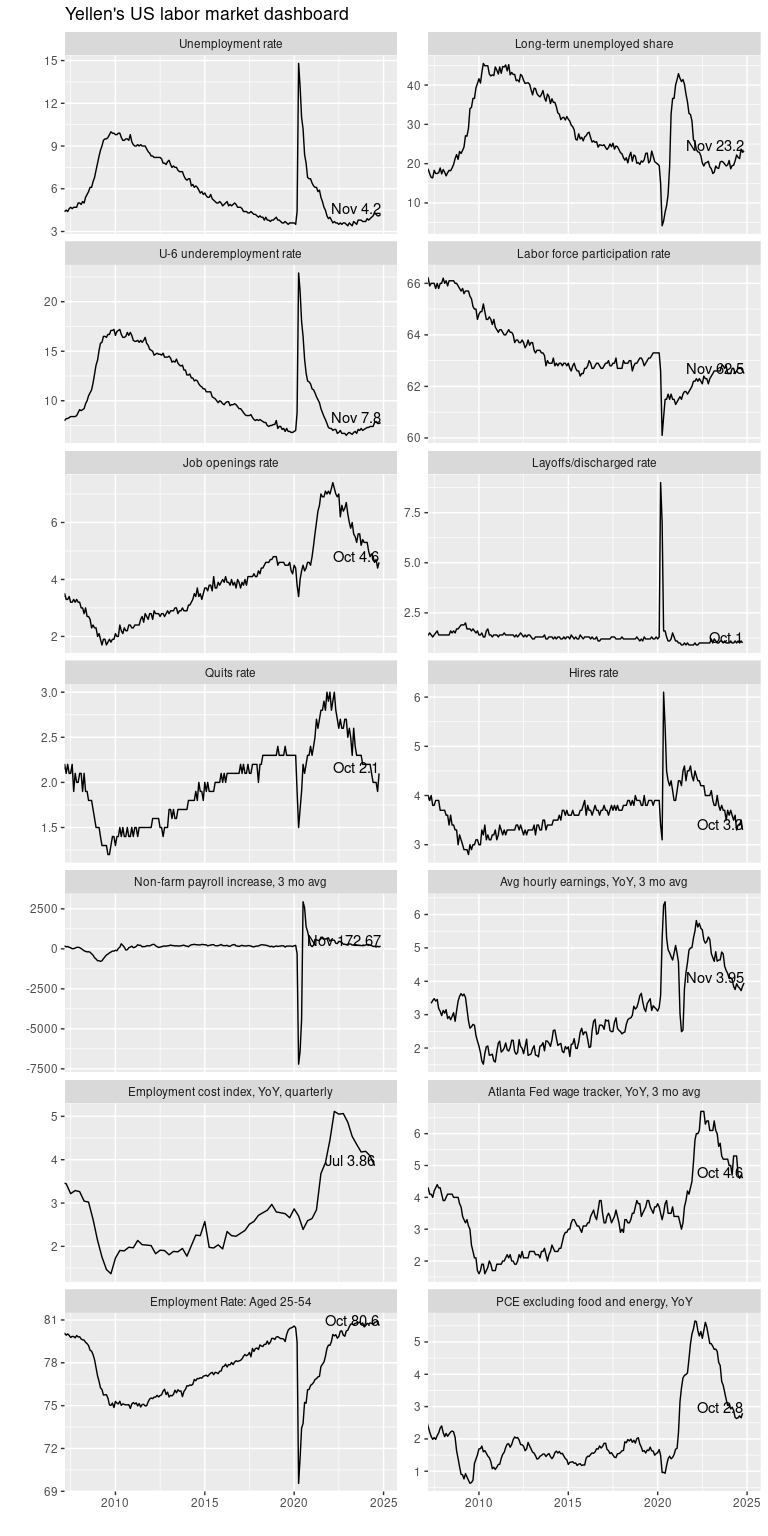
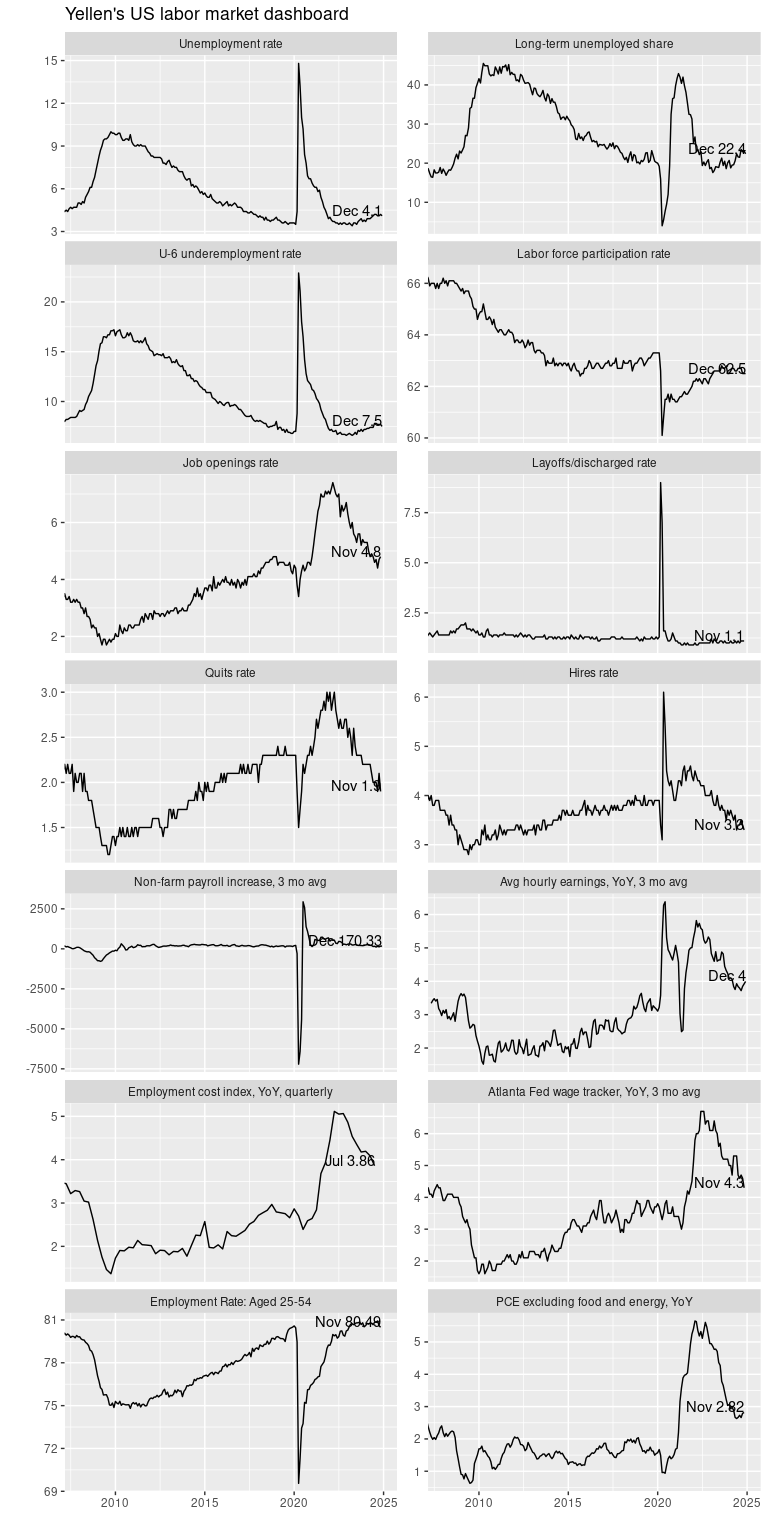
update December 2024 unemployment

diff --git a/README.md b/README.md
@@ -14,7 +14,7 @@ Mitsuo Shiota
 - [Prepare for the plot](#prepare-for-the-plot)
 - [Dashboard](#dashboard)
 
-Updated: 2024-12-07
+Updated: 2025-01-11
 
 ## Summary
 
